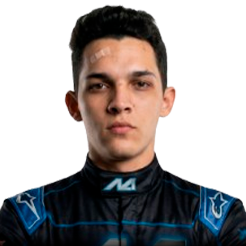
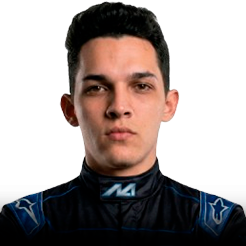
Home: carrossel só SML na pré-temporada; fotos pilotos SML/s21 atualizadas
Made-with: Cursor

Changed region(s): [[0.0, 0.0, 1.0, 1.0], [0.0, 0.9675, 0.0285, 1.0], [0.0854, 0.9959, 0.1138, 1.0]]

diff --git a/src/pages/Home.jsx b/src/pages/Home.jsx
@@ -72,11 +72,11 @@ const flagColors = {
 };
 
 /**
- * Cadeia: pasta da temporada (ex. s21) → SML → s19 do grid → sombra.
- * Estado no src evita re-render sobrescrever fallback (React + img).
- * Não omitir s{N}: fotos T21 passam a viver em carreira/light/s21.
+ * Cadeia normal: s{N} → SML → s19 do grid → sombra.
+ * `hubCarouselSmlOnly`: pré-temporada no hub — só `/pilotos/SML/` e depois sombra (não usa pasta s{N} nem s19).
+ * Estado no src evita re-render sobrescrever o fallback.
  */
-const DriverImage = ({ name, gridType, season, className, style }) => {
+const DriverImage = ({ name, gridType, season, className, style, hubCarouselSmlOnly = false }) => {
     const baseName = name ? repairUtf8Mojibake(String(name)) : '';
     const cleanName = baseName
         ? baseName.normalize('NFD').replace(/[\u0300-\u036f]/g, '').replace(/\s+/g, '').toLowerCase()
@@ -88,14 +88,15 @@ const DriverImage = ({ name, gridType, season, className, style }) => {
         const smlSrc = `/pilotos/SML/${cleanName}.png`;
         const fallbackS19Src = `/pilotos/${gridType}/s19/${cleanName}.png`;
         const shadowSrc = '/pilotos/pilotoshadow.png';
+        if (hubCarouselSmlOnly) return [smlSrc, shadowSrc];
         return [seasonSrc, smlSrc, fallbackS19Src, shadowSrc];
-    }, [gridType, seasonNum, cleanName]);
+    }, [hubCarouselSmlOnly, gridType, seasonNum, cleanName]);
 
     const [step, setStep] = useState(0);
 
     useEffect(() => {
         setStep(0);
-    }, [cleanName, gridType, seasonNum]);
+    }, [cleanName, gridType, seasonNum, hubCarouselSmlOnly]);
 
     const maxIdx = Math.max(0, fallbackChain.length - 1);
     const safeStep = Math.min(step, maxIdx);
@@ -107,7 +108,7 @@ const DriverImage = ({ name, gridType, season, className, style }) => {
 
     return (
         <img
-            key={`${cleanName}-${gridType}-${seasonNum}`}
+            key={`${cleanName}-${gridType}-${seasonNum}-${hubCarouselSmlOnly ? 'sml' : 'std'}`}
             src={src}
             className={className}
             style={style}
@@ -276,6 +277,9 @@ function Home() {
         if (isPreSeasonMode(ctx)) return proposalsDraftSeason(ctx);
         return homeCarouselStandingsSeason(ctx);
     }, [seasonCtx]);
+
+    /** Carrossel + mini TOP 3 do hub: em pré-temporada usa somente fotos da pasta SML. */
+    const hubCarouselSmlOnly = useMemo(() => isPreSeasonMode(seasonCtx || defaultSeasonContext()), [seasonCtx]);
 
     const heroSeasonLabel = useMemo(() => {
         const s = Number(carouselPhotoSeason);
@@ -1999,7 +2003,7 @@ function Home() {
                                                 {d.points.toFixed(0)}
                                             </div>
                                         )}
-                                        <div className="dch-photo-wrapper"><DriverImage name={d.name} gridType="carreira" season={carouselPhotoSeason} className="dch-photo" /></div>
+                                        <div className="dch-photo-wrapper"><DriverImage name={d.name} gridType="carreira" season={carouselPhotoSeason} className="dch-photo" hubCarouselSmlOnly={hubCarouselSmlOnly} /></div>
                                         <div className="dch-info">
                                             <div className="dch-name">
                                                 <span className="dch-firstname">{firstName}</span>
@@ -2070,7 +2074,7 @@ function Home() {
                                                     {d.points.toFixed(0)}
                                                 </div>
                                             )}
-                                            <div className="dch-photo-wrapper"><DriverImage name={d.name} gridType="light" season={carouselPhotoSeason} className="dch-photo" /></div>
+                                            <div className="dch-photo-wrapper"><DriverImage name={d.name} gridType="light" season={carouselPhotoSeason} className="dch-photo" hubCarouselSmlOnly={hubCarouselSmlOnly} /></div>
                                             <div className="dch-info">
                                                 <div className="dch-name">
                                                     <span className="dch-firstname">{firstName}</span>
@@ -2105,7 +2109,7 @@ function Home() {
                                     {topDrivers.map((d, i) => (
                                         <div key={d.name} className={`ms-row rank-${i+1}`} onClick={() => handleDriverClick(d)} style={{cursor:'pointer'}}>
                                             <div className="ms-pos">{i+1}</div>
-                                            <div className="ms-driver"><DriverImage name={d.name} gridType="carreira" season={carouselPhotoSeason} className="ms-photo" /><div className="ms-info"><span className="ms-name">{d.name}</span><span className="ms-team">{d.team}</span></div></div>
+                                            <div className="ms-driver"><DriverImage name={d.name} gridType="carreira" season={carouselPhotoSeason} className="ms-photo" hubCarouselSmlOnly={hubCarouselSmlOnly} /><div className="ms-info"><span className="ms-name">{d.name}</span><span className="ms-team">{d.team}</span></div></div>
                                             <div className="ms-pts">{d.points.toFixed(0)}</div>
                                         </div>
                                     ))}
@@ -2117,7 +2121,7 @@ function Home() {
                                     {topDriversLight.map((d, i) => (
                                         <div key={d.name} className={`ms-row rank-${i+1}`} onClick={() => handleDriverClick({ ...d, gridType: 'light' })} style={{cursor:'pointer'}}>
                                             <div className="ms-pos">{i+1}</div>
-                                            <div className="ms-driver"><DriverImage name={d.name} gridType="light" season={carouselPhotoSeason} className="ms-photo" /><div className="ms-info"><span className="ms-name">{d.name}</span><span className="ms-team">{d.team}</span></div></div>
+                                            <div className="ms-driver"><DriverImage name={d.name} gridType="light" season={carouselPhotoSeason} className="ms-photo" hubCarouselSmlOnly={hubCarouselSmlOnly} /><div className="ms-info"><span className="ms-name">{d.name}</span><span className="ms-team">{d.team}</span></div></div>
                                             <div className="ms-pts">{d.points.toFixed(0)}</div>
                                         </div>
                                     ))}
